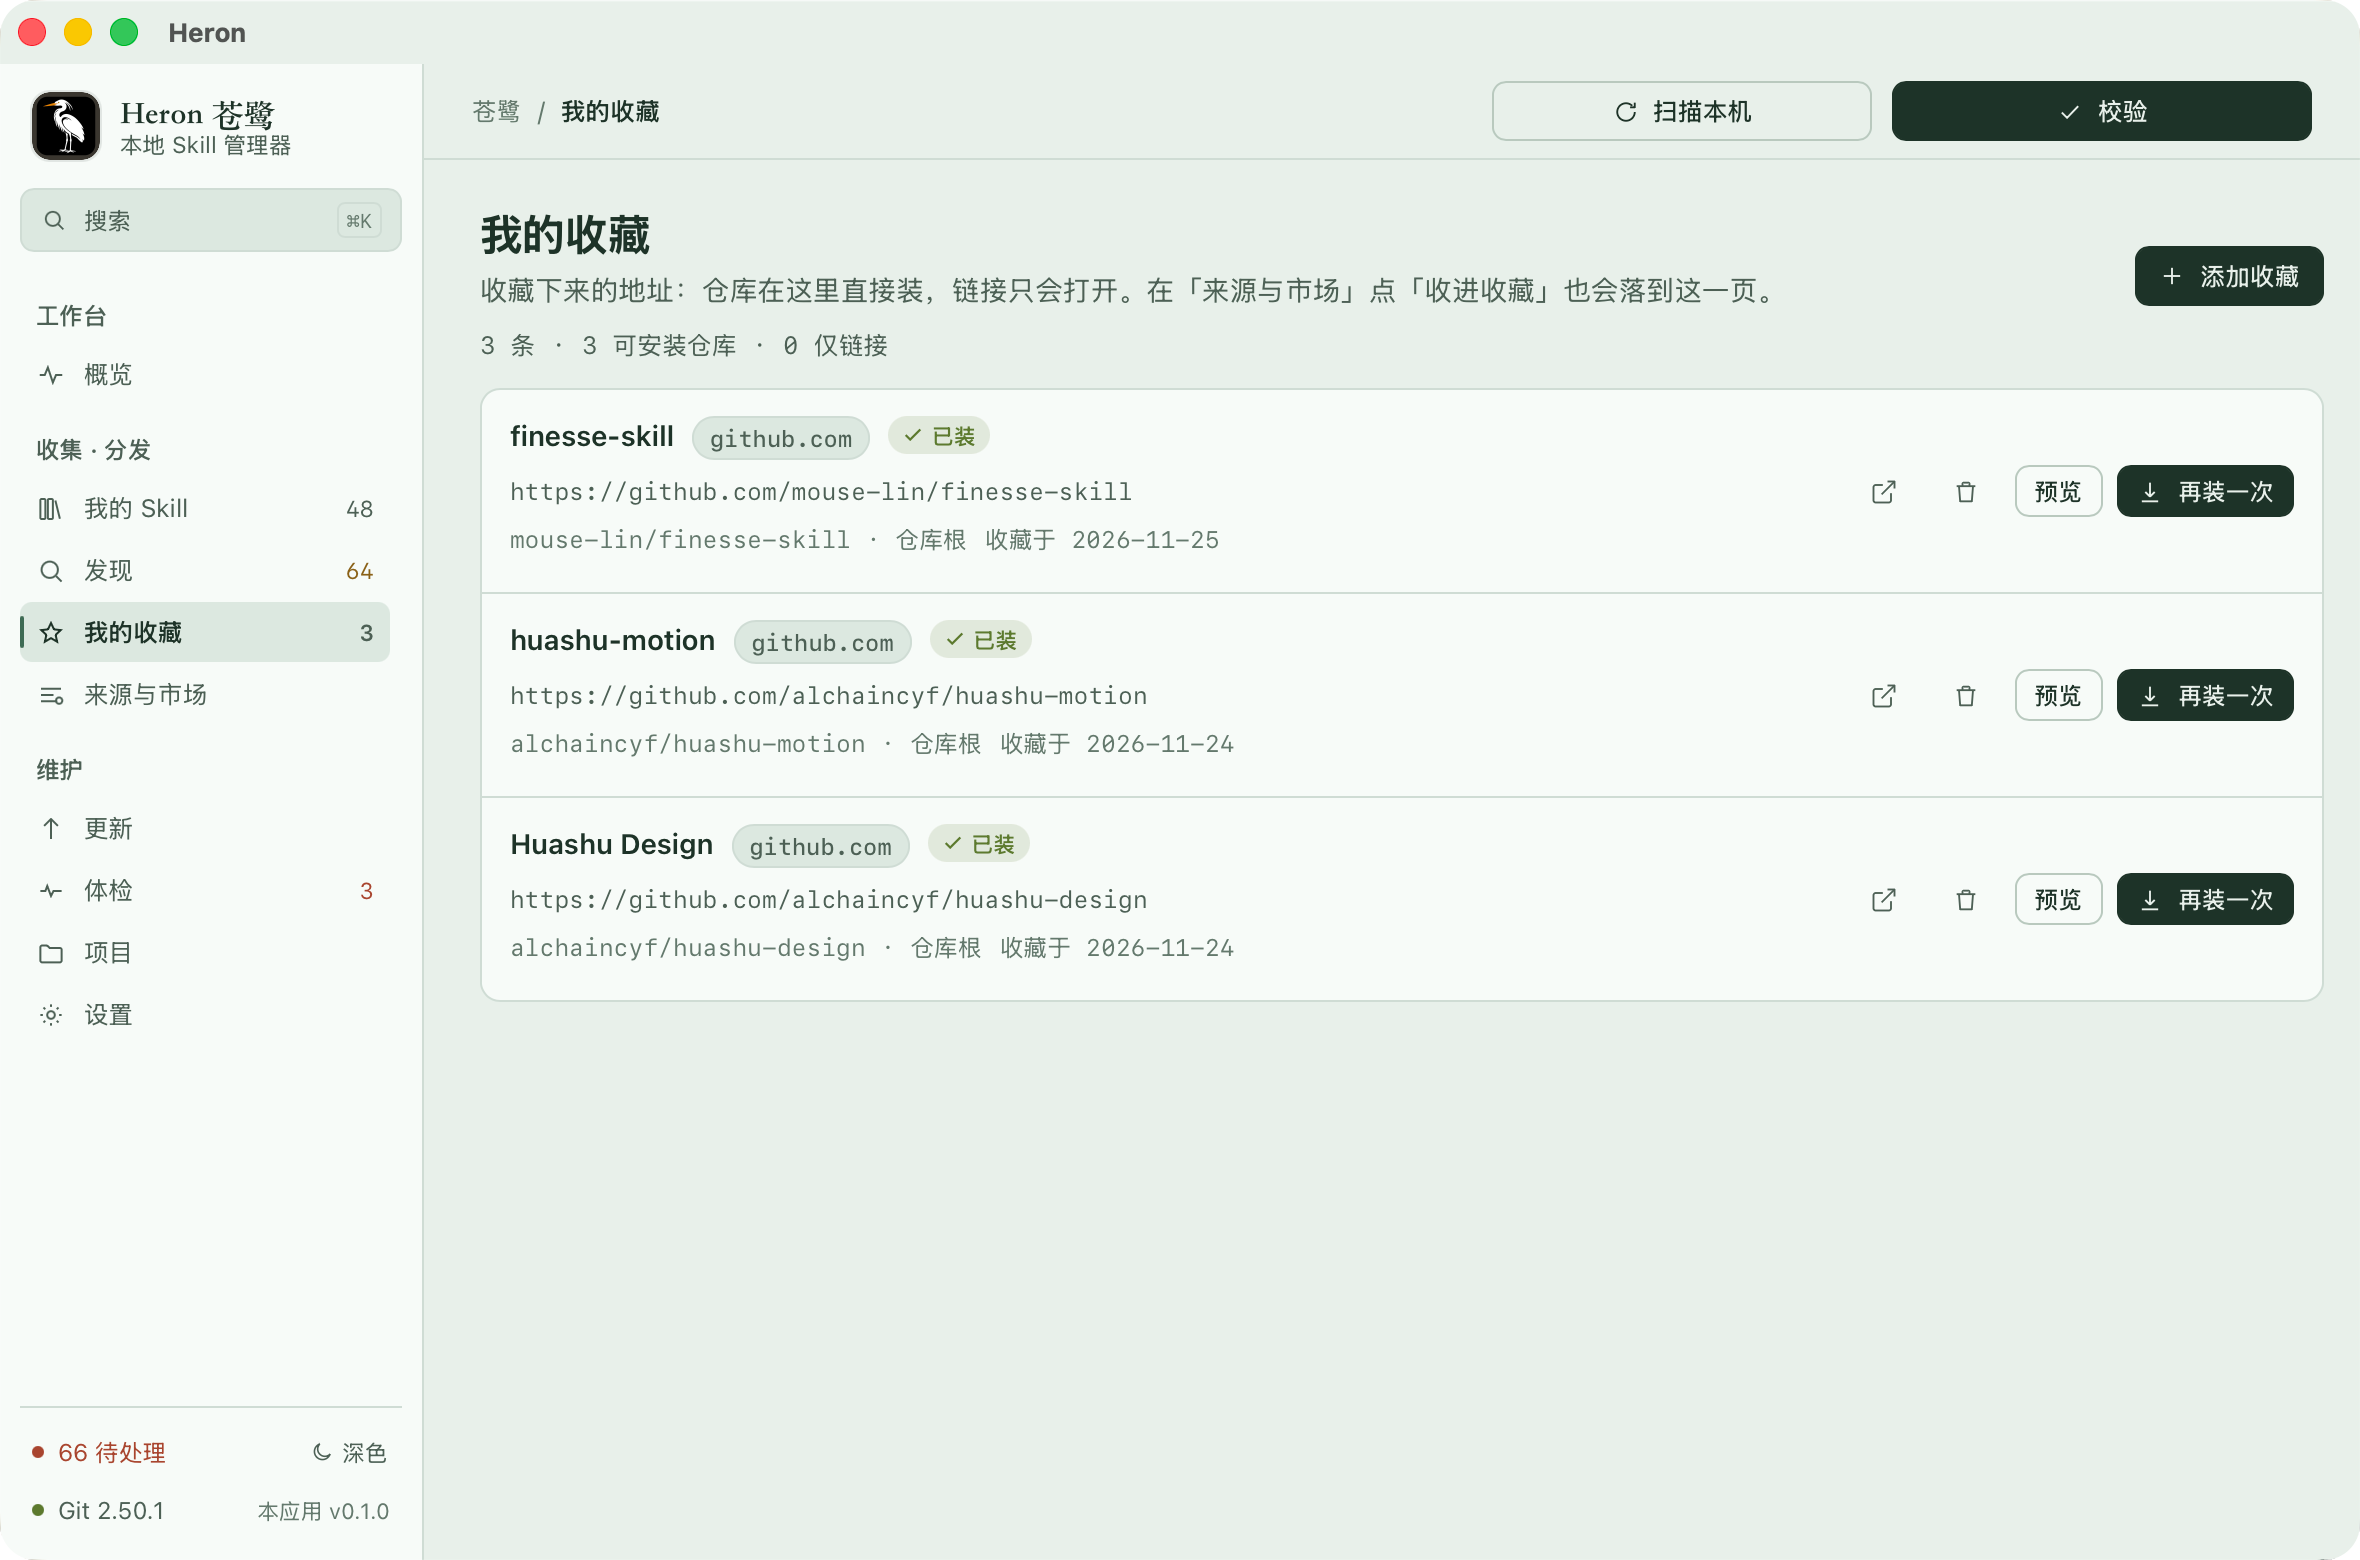
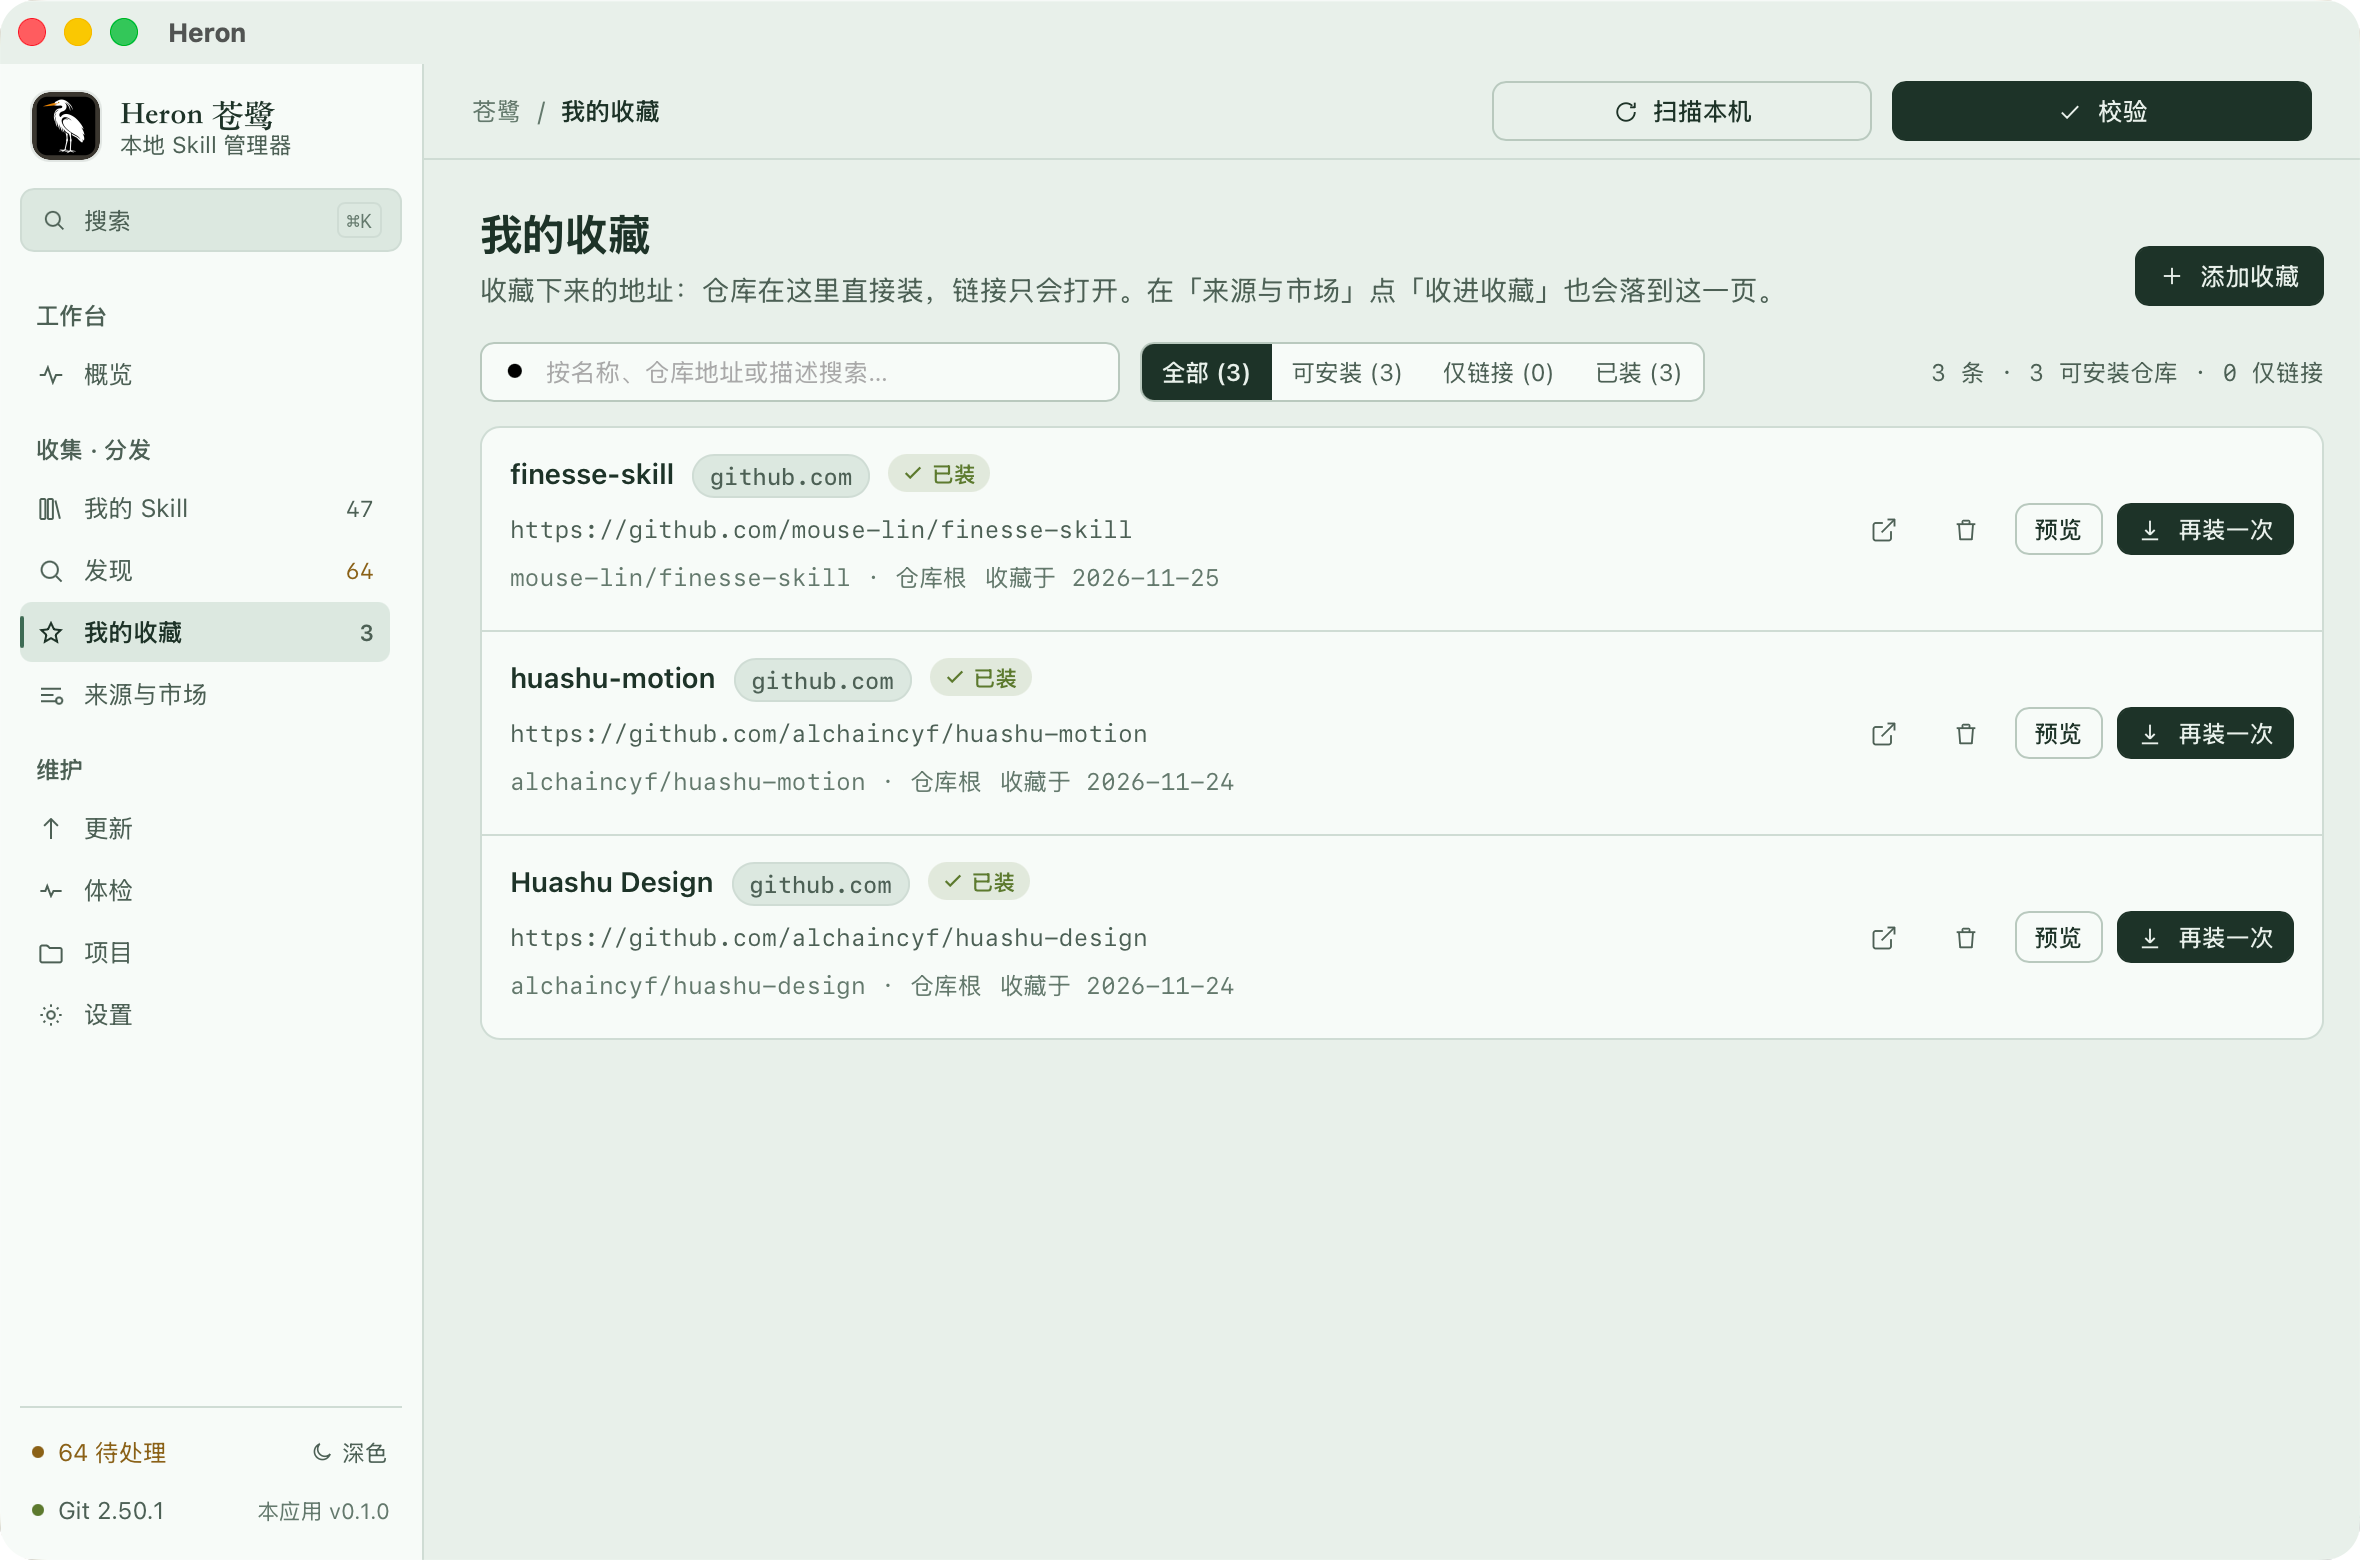
feat(ui): 优化待处理状态按钮的跳转逻辑与提示文案
修改底部状态栏待处理按钮的点击行为：
当体检菜单存在数据时优先跳转至体检页，
若无数据则跳转至发现页。
同步更新中英文 i18n 提示文案，
使其描述更加准确和通用。

diff --git a/ui/src/App.vue b/ui/src/App.vue
@@ -83,6 +83,11 @@ function openGitSettings() {
   void router.push(store.git ? "/sources" : "/settings");
 }
 
+function openPending() {
+  // 「体检」菜单有数据时优先跳转到体检页，否则跳转到「发现」页。
+  void router.push((store.issueCount ?? 0) > 0 ? "/doctor" : "/discover");
+}
+
 /* ---------- the walk, at the shell layer ---------- *
  * The rail and the Esc key live here because the scan does: it outlives every page, and there is no
  * global hotkey system in this app to register a chord with. Both read `store.scan` only. */
@@ -209,7 +214,7 @@ function go(to: string) {
 
       <div class="rail-foot">
         <div class="foot-row">
-          <button type="button" class="foot-status" :title="pendingHint" @click="router.push('/doctor')">
+          <button type="button" class="foot-status" :title="pendingHint" @click="openPending()">
             <span class="health-dot" :class="scanState" />
             <span :class="pendingTone ? `tone-${pendingTone}` : ''">{{ t("shell.pending", { n: pending }) }}</span>
           </button>
